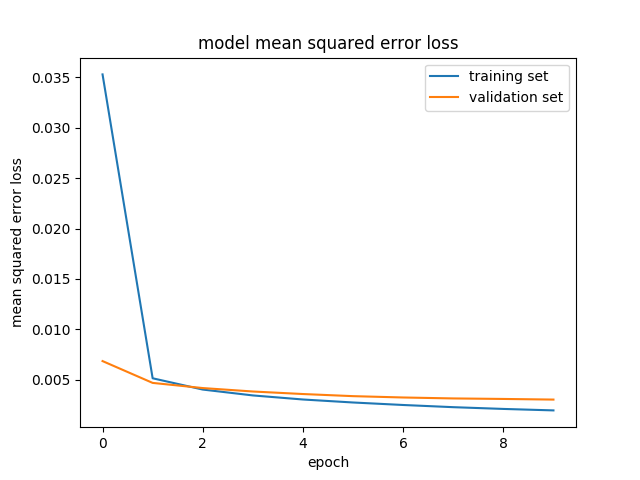
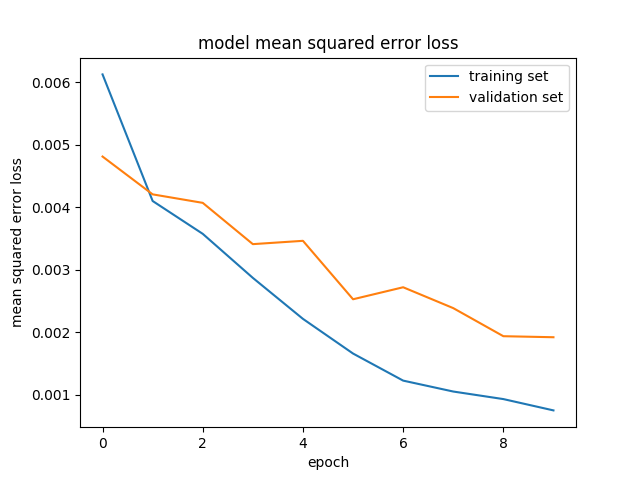
Fix augmentation bug

diff --git a/model.py b/model.py
@@ -5,19 +5,37 @@ from sklearn.utils import shuffle
 from sklearn.model_selection import train_test_split
 
 BATCH_SIZE = 32
-DATA_TYPE = ['course1_normal1', 'course1_normal2']
-#DATA_TYPE = ['course1_normal1']
+DATA_TYPE = ['course1_normal1', 'course1_normal2', 'course1_backward']
+CORRECTION = 0.2
 
 samples = []
 for datum in DATA_TYPE:
   with open('./data/'+datum+'/driving_log.csv') as csvfile:
     reader = csv.reader(csvfile)
     for line in reader:
+      #Load center, normal image
       line[0] = './data/'+datum+'/IMG/'+line[0].split('/')[-1]
-      line.append(1)
-      samples.append(line)
+      line.append(1) #This flag is indicating normal image
+      samples.append(line.copy())
+      #Load center, flipped image
       line[-1] = -1
-      samples.append(line)
+      samples.append(line.copy())
+      #Load left, normal image
+      line[0] = './data/'+datum+'/IMG/'+line[1].split('/')[-1]
+      line[3] = float(line[3]) + CORRECTION
+      line[-1] = 1
+      samples.append(line.copy())
+      #Load left, flipped image
+      line[-1] = -1
+      samples.append(line.copy())
+      #Load right, normal image
+      line[0] = './data/'+datum+'/IMG/'+line[2].split('/')[-1]
+      line[3] = line[3] - CORRECTION * 2
+      line[-1] = 1
+      samples.append(line.copy())
+      #Load left, flipped image
+      line[-1] = -1
+      samples.append(line.copy())
 
 def generator(samples, batch_size=32):
   num_samples = len(samples)
@@ -30,13 +48,13 @@ def generator(samples, batch_size=32):
       angles = []
 
       for batch_sample in batch_samples:
-        center_image = cv2.imread(batch_sample[0])
-        center_angle = float(batch_sample[3])
+        image = cv2.imread(batch_sample[0])
+        angle = float(batch_sample[3])
         if (batch_sample[-1] == -1):
-          center_image = np.fliplr(center_image)
-          center_angle = - center_angle
-        images.append(center_image)
-        angles.append(center_angle)
+          image = np.fliplr(image)
+          angle = -angle
+        images.append(image)
+        angles.append(angle)
 
       X_train = np.array(images)
       y_train = np.array(angles)
@@ -57,25 +75,25 @@ model.add(Lambda(lambda x: x/255.0 - 0.5, input_shape=(160, 320, 3)))
 model.add(Cropping2D(cropping=((70, 25), (0, 0))))
 
 ## Start of LeNet
-model.add(Conv2D(6, (5, 5), activation='relu'))
-model.add(MaxPooling2D())
-model.add(Conv2D(6, (5, 5), activation='relu'))
-model.add(MaxPooling2D())
-model.add(Flatten())
-model.add(Dense(120))
-model.add(Dense(84))
+#model.add(Conv2D(6, (5, 5), activation='relu'))
+#model.add(MaxPooling2D())
+#model.add(Conv2D(6, (5, 5), activation='relu'))
+#model.add(MaxPooling2D())
+#model.add(Flatten())
+#model.add(Dense(120))
+#model.add(Dense(84))
 ## End of LeNet
 
 ## Start of NVIDIA
-#model.add(Conv2D(24, (5, 5), strides=(2, 2), activation='relu'))
-#model.add(Conv2D(36, (5, 5), strides=(2, 2), activation='relu'))
-#model.add(Conv2D(48, (5, 5), strides=(2, 2), activation='relu'))
-#model.add(Conv2D(64, (3, 3), activation='relu'))
-#model.add(Conv2D(64, (3, 3), activation='relu'))
-#model.add(Flatten())
-#model.add(Dense(100))
-#model.add(Dense(50))
-#model.add(Dense(10))
+model.add(Conv2D(24, (5, 5), strides=(2, 2), activation='relu'))
+model.add(Conv2D(36, (5, 5), strides=(2, 2), activation='relu'))
+model.add(Conv2D(48, (5, 5), strides=(2, 2), activation='relu'))
+model.add(Conv2D(64, (3, 3), activation='relu'))
+model.add(Conv2D(64, (3, 3), activation='relu'))
+model.add(Flatten())
+model.add(Dense(100))
+model.add(Dense(50))
+model.add(Dense(10))
 ## End of NVIDIA
 
 model.add(Dense(1))
